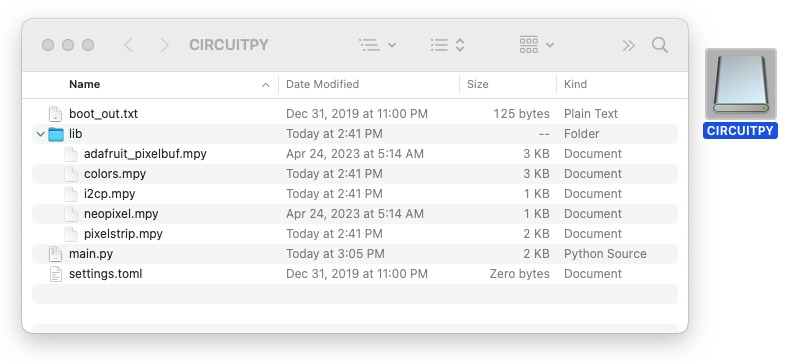
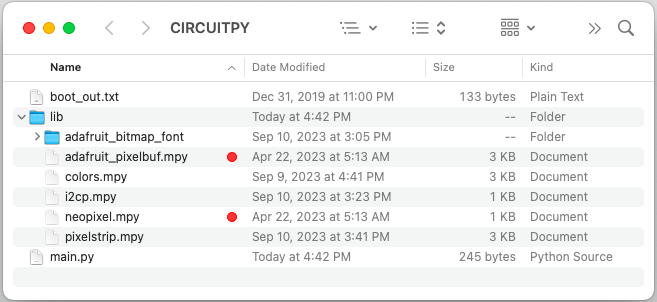
bitmap fonts are necessary

diff --git a/README.md b/README.md
@@ -11,10 +11,11 @@ First, install the latest version of CircuitPython, [downloading a UF2 file spec
 Second, [download the latest CircuitPython libraries](https://circuitpython.org/libraries).
 This package will contain the latest `neopixel.mpy` library, and others.
 
-On your laptop, download [Visual Studio Code](https://code.visualstudio.com/) with the [CircuitPython](https://marketplace.visualstudio.com/items?itemName=joedevivo.vscode-circuitpython) extension.  Although most of the CircuitPython tutorials use the [Mu](https://codewith.mu/) editor,  I choose to work mostly with Visual Studio Code, since VSC is supported by [FIRST](https://www.firstinspires.org/) robotics.
+On your laptop, download [Visual Studio Code](https://code.visualstudio.com/) with the [CircuitPython](https://marketplace.visualstudio.com/items?itemName=joedevivo.vscode-circuitpython) extension.  (Although most of the CircuitPython tutorials use the [Mu](https://codewith.mu/) editor,  I choose to work mostly with Visual Studio Code, since VSC is supported by [FIRST](https://www.firstinspires.org/) robotics.)
 
 Now, copy the following libaries into the `lib` directory:
 * `neopixel.mpy` and `adafruit_pixelbuf.mpy` taken from the CircuitPython libraries
+* The wole folder for `adafruit_bitmap_font`.
 * `pixelstrip.mpy` and `colors.mpy` 
 
 ![Files](documentation/img/ciruitPython_files.png)
